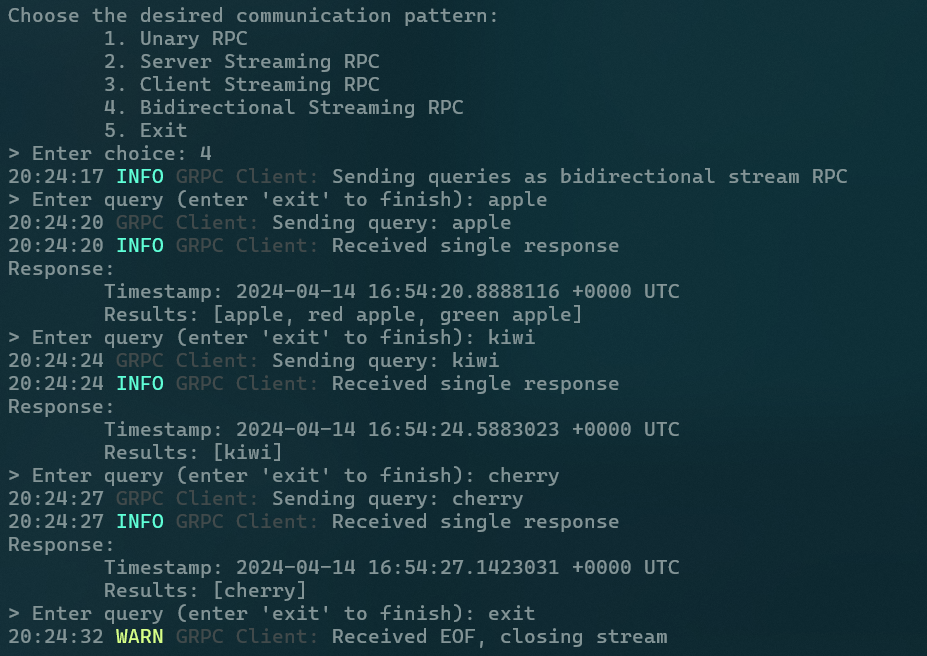
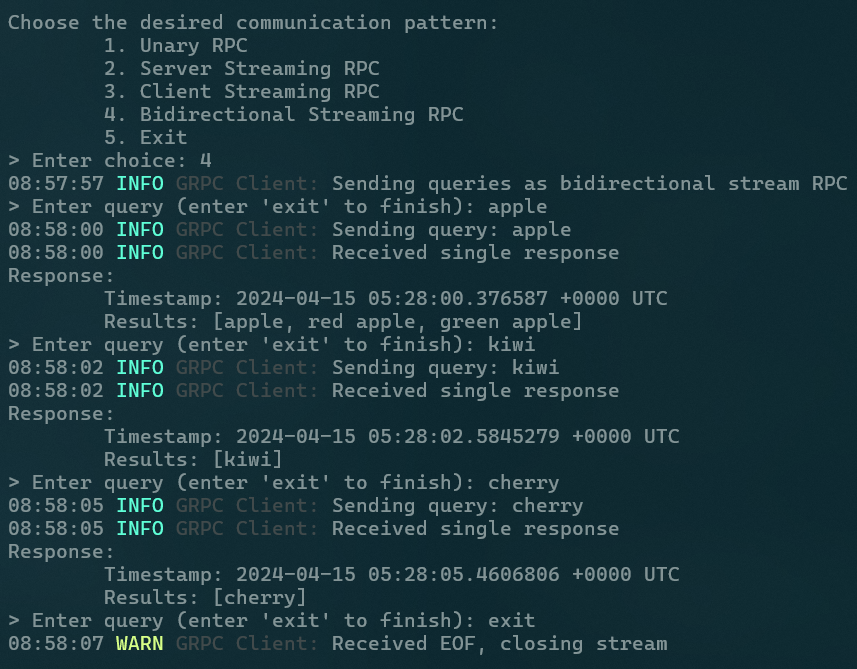
Remove log.Printf

Changed region(s): [[0.0, 0.0, 1.0, 0.4268], [0.0, 0.6402, 0.7888, 1.0], [0.0, 0.4268, 0.7888, 0.6402]]

diff --git a/CA1 - gRPC/cmd/client/main.go b/CA1 - gRPC/cmd/client/main.go
@@ -127,7 +127,7 @@ func GetOrderBiDiStream(client pb.OrderManagementClient, queryChan chan string) 
 	}()
 
 	for query := range queryChan {
-		log.Printf("Sending query: %s", query)
+		log.Infof("Sending query: %s", query)
 		if err := stream.Send(&pb.Request{Query: query}); err != nil {
 			log.Fatalf("Failed to send request: %v", err)
 		}

diff --git a/CA1 - gRPC/README.md b/CA1 - gRPC/README.md
@@ -669,7 +669,7 @@ func GetOrderBiDiStream(client pb.OrderManagementClient, queryChan chan string) 
     }()
 
     for query := range queryChan {
-        log.Printf("Sending query: %s", query)
+        log.Infof("Sending query: %s", query)
         if err := stream.Send(&pb.Request{Query: query}); err != nil {
             log.Fatalf("Failed to send request: %v", err)
         }
